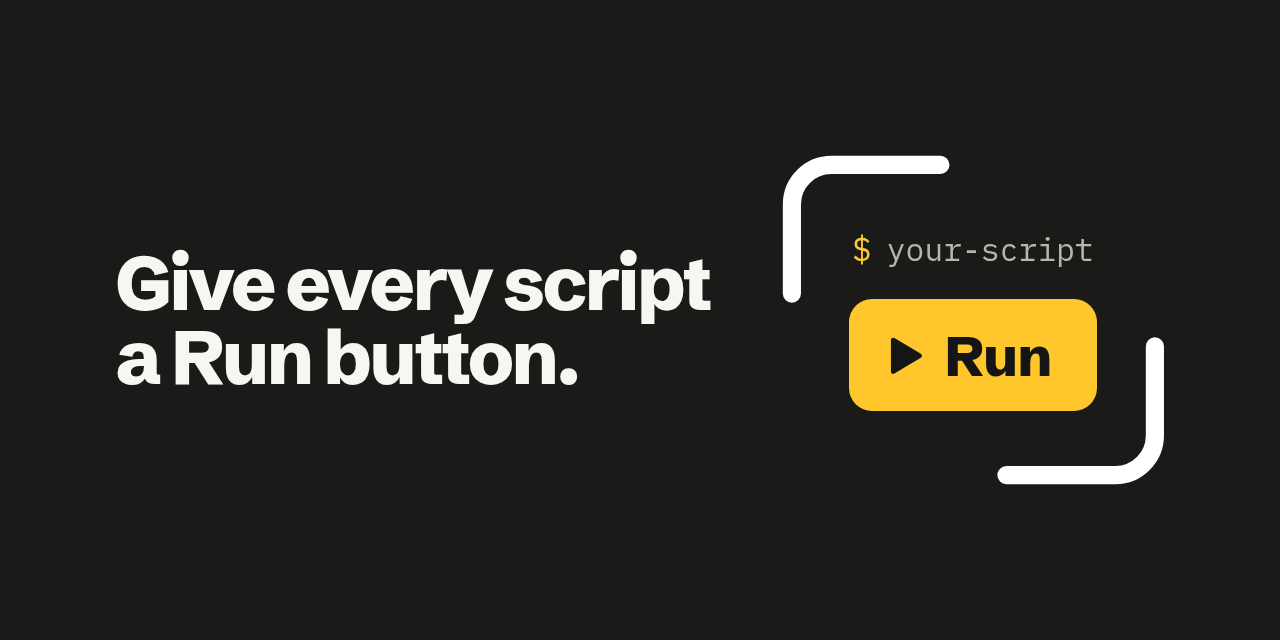
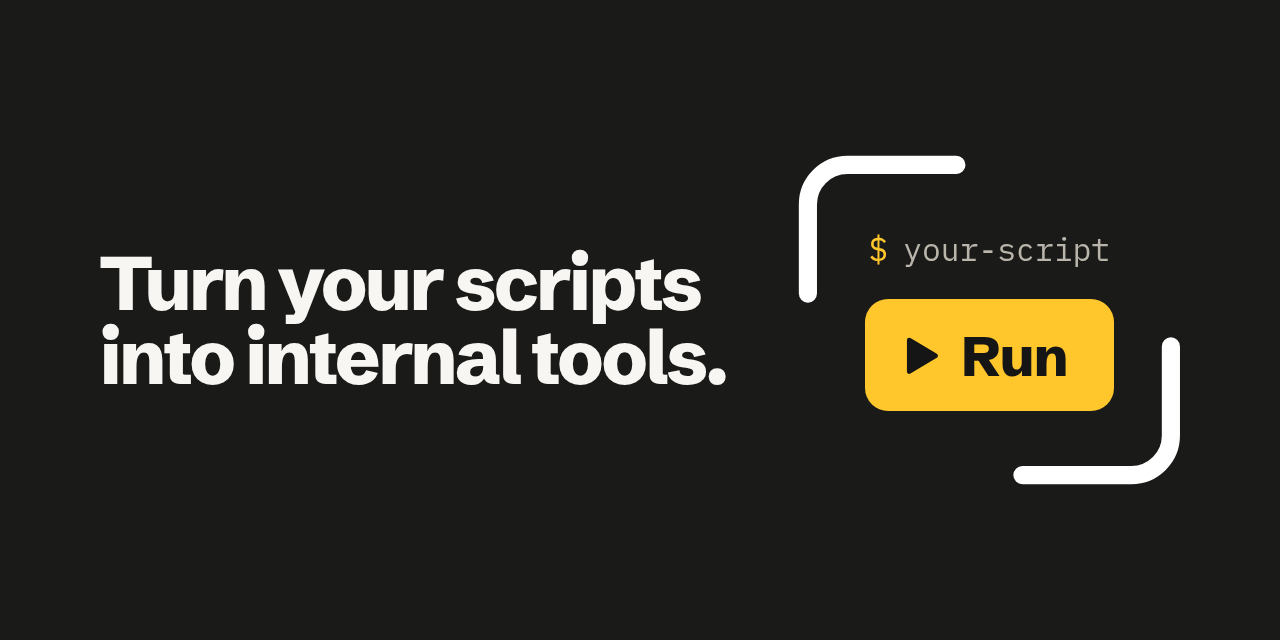
Update the organisation homepage
Generated from Reminix's source at 81a6677b3176.

diff --git a/profile/README.md b/profile/README.md
@@ -1,6 +1,6 @@
 [![Reminix](banner.png)](https://reminix.com)
 
-Reminix lets your whole team, your software and your agents run your team's scripts, and the ones AI writes: one publish gives a form, an API and an agent tool, with keys kept out of the code and every run on record.
+Reminix turns your scripts into internal tools. Upload a Python, shell or Node script, and Reminix runs it from a form, the API, the CLI or your AI agents, on a schedule or from a webhook. Keys stay out of the code, and every run is on record.
 
 ## Start
 
